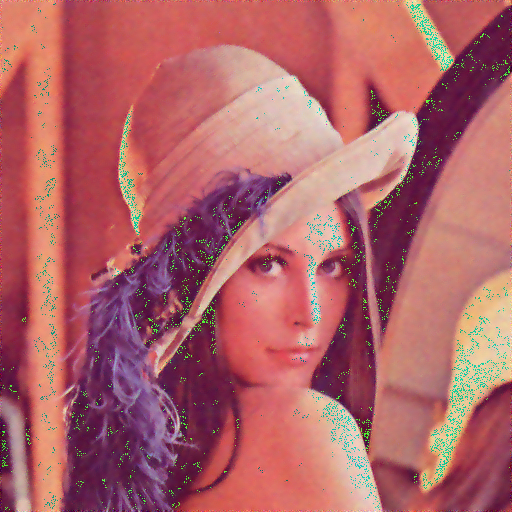
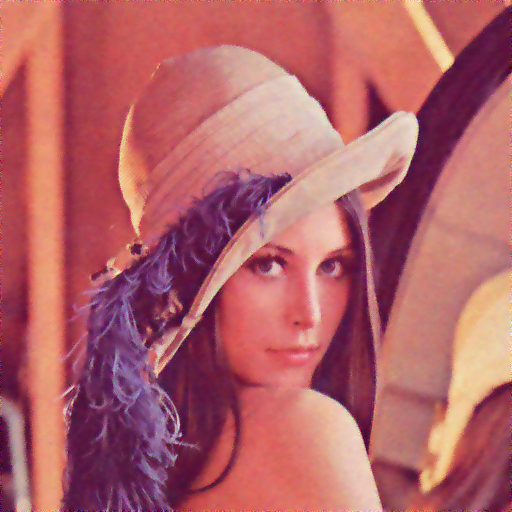
K-SVD add

diff --git a/image_procesing_test.py b/image_procesing_test.py
@@ -39,8 +39,11 @@ def metric(original, noised):
 
 if __name__ == "__main__":
     result_path = "test_result"
-    noise_type = "AWGN"
-    filter_type = "KSVD"
+    noises = ["ASCN", "MULT", "SPECKLE"]
+    filters = ["BM3D", "DCT", "FROST", "LEE", "MEDIAN", "KSVD"]
+
+    noise_type = "ASCN"
+    filter_type = ""
 
     image_path = "image_Lena512rgb.png"
     image_loaded = cv2.imread(image_path)
@@ -48,7 +51,7 @@ if __name__ == "__main__":
     if noise_type == "AWGN":
         img_noise = AWGN.AWGN(image_loaded, 20)  # .astype(int)
     elif noise_type == "ASCN":
-        img_noise = ASCN.ASCN(image_loaded, 10, 0.4)
+        img_noise = ASCN.ASCN(image_loaded, 10, 0.8)
     elif noise_type == "MULT":
         img_noise = Mult.Mult(image_loaded, 5)
     elif noise_type == "SPECKLE":
@@ -59,7 +62,7 @@ if __name__ == "__main__":
     if noise_type != "":
         cv2.imwrite(f"{result_path}/{noise_type}_Noise.png", img_noise)
 
-    if filter_type == "BM3D":
+    if filter_type == "BM3D":  # 6 MIN
         print("BM3D")
         imgYCB = cv2.cvtColor(img_noise.astype(np.uint8), cv2.COLOR_BGR2YCrCb)
 
@@ -72,31 +75,31 @@ if __name__ == "__main__":
         cv2.imwrite(f"{result_path}/{noise_type}_Final_sigma_color.png", cv2.cvtColor(Final_img, cv2.COLOR_YCrCb2BGR))
         print(metric(image_loaded, Final_img)[0])
 
-    elif filter_type == "DCT":
+    elif filter_type == "DCT":  # 1.5 MIN
         print("DCT")
         img = DCT.dct_filter(img_noise, 100)
         cv2.imwrite(f"{result_path}/{noise_type}_DCT_color.png", img)
         print(metric(image_loaded, img)[0])
 
-    elif filter_type == "FROST":
+    elif filter_type == "FROST":  # 1 MIN
         print("Frost")
         img = Frost.Frost(img_noise)
         cv2.imwrite(f"{result_path}/{noise_type}_Frost.png", img)
         print(metric(image_loaded, img)[0])
 
-    elif filter_type == "LEE":
+    elif filter_type == "LEE":  # 1 MIN
         print("Lee")
         img = Lee.lee_filter(img_noise, 5, 20 ** 2)
         cv2.imwrite(f"{result_path}/{noise_type}_Lee.png", Lee.lee_filter(img, 5, 20 ** 2))
         print(metric(image_loaded, img)[0])
 
-    elif filter_type == "MEDIAN":
+    elif filter_type == "MEDIAN":  # 0 MIN
         print("Median")
         img = Median.median_filter(img_noise, 3)
         cv2.imwrite(f"{result_path}/{noise_type}_Median.png", img)
         print(metric(image_loaded, img)[0])
 
-    elif filter_type == "KSVD":
+    elif filter_type == "KSVD":  # 2 MIN
         print("K-SVD")
         img = ksvd(img_noise)
         cv2.imwrite(f"{result_path}/{noise_type}_K-SVD.png", img)

diff --git a/noising.py b/noising.py
@@ -20,24 +20,55 @@ from image_processing.filters.BM3D_color import BM3D_1st_step_color
 
 from concurrent.futures import ProcessPoolExecutor as Executor
 
-image_path = 'dataset/Mult_5'
-filtered_path_frost = 'dataset/Mult_5_BM3D'
+image_path = 'dataset/coco/train2017'
+processed_path = 'E:\\diplom\\noised'
 
 cv2.setUseOptimized(True)
 
 
-def filtering_frost(image):
+def processing_noise(image):
     image_loaded = cv2.imread(f"{image_path}/{image}")
-    img = BM3D_1st_step_color(image_loaded)
-    cv2.imwrite(f"{filtered_path_frost}/{image}", img)
+
+    img_noise = AWGN.AWGN(image_loaded, 5)  # .astype(int)
+    cv2.imwrite(f"{processed_path}/AWGN_5/{image}", img_noise)
+
+    img_noise = AWGN.AWGN(image_loaded, 10)  # .astype(int)
+    cv2.imwrite(f"{processed_path}/AWGN_10/{image}", img_noise)
+
+    img_noise = AWGN.AWGN(image_loaded, 20)  # .astype(int)
+    cv2.imwrite(f"{processed_path}/AWGN_20/{image}", img_noise)
+
+    img_noise = AWGN.AWGN(image_loaded, 30)  # .astype(int)
+    cv2.imwrite(f"{processed_path}/AWGN_30/{image}", img_noise)
+
+    # img_noise = ASCN.ASCN(image_loaded, 5, 0.8)
+    # cv2.imwrite(f"{processed_path}/ASCN_30/{image}", img_noise)
+
+    img_noise = Mult.Mult(image_loaded, 1)
+    cv2.imwrite(f"{processed_path}/MULT_1/{image}", img_noise)
+
+    img_noise = Mult.Mult(image_loaded, 3)
+    cv2.imwrite(f"{processed_path}/MULT_3/{image}", img_noise)
+
+    img_noise = Mult.Mult(image_loaded, 5)
+    cv2.imwrite(f"{processed_path}/MULT_5/{image}", img_noise)
+
+    img_noise = Mult.Mult(image_loaded, 7)
+    cv2.imwrite(f"{processed_path}/MULT_7/{image}", img_noise)
+
+    img_noise = Speckle.Speckle(image_loaded, 1, 1)
+    cv2.imwrite(f"{processed_path}/Speckle_1/{image}", img_noise)
+
+    img_noise = Speckle.Speckle(image_loaded, 5, 1)
+    cv2.imwrite(f"{processed_path}/Speckle_5/{image}", img_noise)
 
 
 if __name__ == '__main__':
     POOL_SIZE = os.cpu_count() - 2
     with Executor(max_workers=POOL_SIZE) as executor:
-        executor.map(filtering_frost, os.listdir(path=os.path.join(image_path)))
+        executor.map(processing_noise, os.listdir(path=os.path.join(image_path)))
 
-filtering_frost(os.listdir(path=os.path.join(image_path))[0])
+# filtering_frost(os.listdir(path=os.path.join(image_path))[0])
 
 # for image in os.listdir(path=os.path.join(image_path)):
 #     th = Process(target=filtering, args=(image_path, image))
